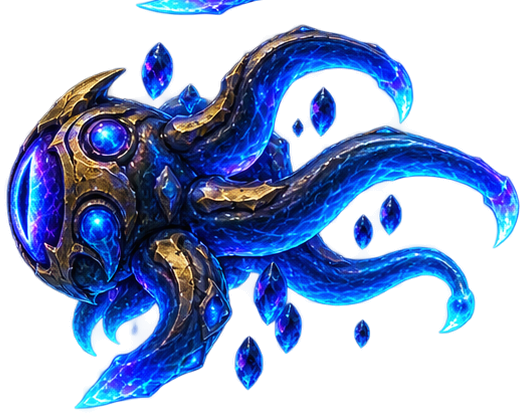
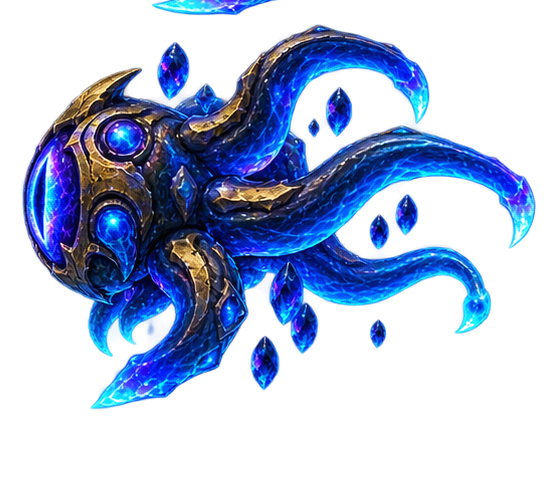
Uncrop Spawner tentacles; raise patrol speed and spawn pressure.

diff --git a/game/play.html b/game/play.html
@@ -2086,7 +2086,7 @@ button.dash-btn.loaded-grenades {
           bill.material.needsUpdate = true;
           const img = tex.image;
           if (img && img.width && img.height) {
-            const h = m.userData.spriteH || 7.4;
+            const h = m.userData.spriteH || 9.2;
             bill.scale.set(h * (img.width / img.height), h, 1);
           }
         }
@@ -2114,8 +2114,8 @@ button.dash-btn.loaded-grenades {
     const billboard = new THREE.Mesh(ENEMY_SPRITE.plane, mat);
     billboard.name = "spawnerSprite";
     billboard.renderOrder = 2;
-    const h = 7.4;
-    billboard.scale.set(h * 1.3, h, 1);
+    const h = 9.2;
+    billboard.scale.set(h * 1.25, h, 1);
     g.add(billboard);
     g.userData.billboard = billboard;
     g.userData.spriteH = h;
@@ -3061,7 +3061,7 @@ button.dash-btn.loaded-grenades {
           m.userData.billboard.material.needsUpdate = true;
           const img = tex.image;
           if (img && img.width && img.height) {
-            const h = m.userData.spriteH || 7.4;
+            const h = m.userData.spriteH || 9.2;
             m.userData.billboard.scale.set(h * (img.width / img.height), h, 1);
           }
         }
@@ -3069,7 +3069,8 @@ button.dash-btn.loaded-grenades {
       const sp = worldTo3D(s.x, s.y);
       const bob = Math.sin(s.pulse || state.time * 2) * 0.12;
       m.visible = true;
-      m.position.set(sp.x, 1.85 + bob, sp.z);
+      // Lift the billboard so tentacle tips clear the forest floor.
+      m.position.set(sp.x, 2.55 + bob, sp.z);
       const bill = m.userData.billboard;
       if (bill && camera) {
         bill.quaternion.copy(camera.quaternion);
@@ -3485,7 +3486,7 @@ button.dash-btn.loaded-grenades {
   const ROCKET_KILLS_INTERVAL = 100;
   const ROCKET_HOME_RANGE = 99999; // always lock a Spawner if any remain
   const ROCKET_SPEED = 400;
-  const SPAWNER_SPEED = 16;
+  const SPAWNER_SPEED = 34;
   const SPAWNER_RADIUS = 92;
   const NUKE_SPAWNER_RANGE = 240; // near-Spawner nuke = 1 missile hit
   /** Soft world edge — player is clamped here; pickups must spawn inside. */
@@ -4608,8 +4609,8 @@ button.dash-btn.loaded-grenades {
       face: pickSpawnerFace(ang),
       section,
       zone,
-      moveTimer: rand(2.2, 4.5),
-      spawnTimer: rand(1.2, 2.4),
+      moveTimer: rand(1.4, 3.0),
+      spawnTimer: rand(0.25, 0.7),
       pulse: rand(0, TAU),
       hitFlash: 0,
       color: "#7ad0ff",
@@ -4849,10 +4850,11 @@ button.dash-btn.loaded-grenades {
 
       s.spawnTimer -= dt;
       if (s.spawnTimer <= 0) {
-        const burst = state.enemies.length < 18 ? 2 : 1;
+        const density = 1 + state.time / 55 + Math.max(0, state.round - 1) * 0.25;
+        const burst = state.enemies.length < 22 ? 3 : state.enemies.length < 34 ? 2 : 1;
         for (let i = 0; i < burst; i++) spawnEnemyFromSpawner(s);
-        const density = 1 + state.time / 80 + Math.max(0, state.round - 1) * 0.15;
-        s.spawnTimer = Math.max(1.05, 2.4 / density) + rand(0, 0.5);
+        // Aggressive spawn cadence — Spawners should pressure the lantern hard.
+        s.spawnTimer = Math.max(0.28, 0.85 / density) + rand(0, 0.18);
       }
 
       // Touching a Spawner costs half your life — they still do not chase you.
@@ -6369,12 +6371,13 @@ button.dash-btn.loaded-grenades {
     const ready = spawnerFaceReady[face];
     const bob = Math.sin(sp.pulse) * 4;
     const pulse = 1 + Math.sin(sp.pulse * 1.2) * 0.025;
-    const drawH = 228 * pulse * (sp.hitFlash > 0 ? 1.04 : 1);
-    const aspect = ready && img && img.width ? img.width / img.height : 1.3;
+    // Tall draw box + slight upward bias so tentacle tips aren't clipped.
+    const drawH = 280 * pulse * (sp.hitFlash > 0 ? 1.04 : 1);
+    const aspect = ready && img && img.width ? img.width / img.height : 1.25;
     const drawW = drawH * aspect;
-    drawShadow(s.x, s.y + 14, drawW * 0.45, drawH * 0.12, 0.4);
+    drawShadow(s.x, s.y + 18, drawW * 0.42, drawH * 0.11, 0.4);
     ctx.save();
-    ctx.translate(s.x, s.y + bob);
+    ctx.translate(s.x, s.y + bob - drawH * 0.06);
     if (ready && img) {
       ctx.drawImage(img, -drawW / 2, -drawH / 2, drawW, drawH);
       if (sp.hitFlash > 0) {
@@ -6400,7 +6403,7 @@ button.dash-btn.loaded-grenades {
     const barW = Math.max(48, drawW * 0.34);
     const barH = 3;
     const bx = s.x - barW / 2;
-    const by = s.y - drawH * 0.48 - 10;
+    const by = s.y - drawH * 0.54 - 8;
     ctx.fillStyle = "rgba(8, 12, 18, 0.28)";
     ctx.fillRect(bx, by, barW, barH);
     ctx.fillStyle = `rgba(147, 197, 253, ${0.35 + pct * 0.25})`;

diff --git a/lantern.html b/lantern.html
@@ -2086,7 +2086,7 @@ button.dash-btn.loaded-grenades {
           bill.material.needsUpdate = true;
           const img = tex.image;
           if (img && img.width && img.height) {
-            const h = m.userData.spriteH || 7.4;
+            const h = m.userData.spriteH || 9.2;
             bill.scale.set(h * (img.width / img.height), h, 1);
           }
         }
@@ -2114,8 +2114,8 @@ button.dash-btn.loaded-grenades {
     const billboard = new THREE.Mesh(ENEMY_SPRITE.plane, mat);
     billboard.name = "spawnerSprite";
     billboard.renderOrder = 2;
-    const h = 7.4;
-    billboard.scale.set(h * 1.3, h, 1);
+    const h = 9.2;
+    billboard.scale.set(h * 1.25, h, 1);
     g.add(billboard);
     g.userData.billboard = billboard;
     g.userData.spriteH = h;
@@ -3061,7 +3061,7 @@ button.dash-btn.loaded-grenades {
           m.userData.billboard.material.needsUpdate = true;
           const img = tex.image;
           if (img && img.width && img.height) {
-            const h = m.userData.spriteH || 7.4;
+            const h = m.userData.spriteH || 9.2;
             m.userData.billboard.scale.set(h * (img.width / img.height), h, 1);
           }
         }
@@ -3069,7 +3069,8 @@ button.dash-btn.loaded-grenades {
       const sp = worldTo3D(s.x, s.y);
       const bob = Math.sin(s.pulse || state.time * 2) * 0.12;
       m.visible = true;
-      m.position.set(sp.x, 1.85 + bob, sp.z);
+      // Lift the billboard so tentacle tips clear the forest floor.
+      m.position.set(sp.x, 2.55 + bob, sp.z);
       const bill = m.userData.billboard;
       if (bill && camera) {
         bill.quaternion.copy(camera.quaternion);
@@ -3485,7 +3486,7 @@ button.dash-btn.loaded-grenades {
   const ROCKET_KILLS_INTERVAL = 100;
   const ROCKET_HOME_RANGE = 99999; // always lock a Spawner if any remain
   const ROCKET_SPEED = 400;
-  const SPAWNER_SPEED = 16;
+  const SPAWNER_SPEED = 34;
   const SPAWNER_RADIUS = 92;
   const NUKE_SPAWNER_RANGE = 240; // near-Spawner nuke = 1 missile hit
   /** Soft world edge — player is clamped here; pickups must spawn inside. */
@@ -4608,8 +4609,8 @@ button.dash-btn.loaded-grenades {
       face: pickSpawnerFace(ang),
       section,
       zone,
-      moveTimer: rand(2.2, 4.5),
-      spawnTimer: rand(1.2, 2.4),
+      moveTimer: rand(1.4, 3.0),
+      spawnTimer: rand(0.25, 0.7),
       pulse: rand(0, TAU),
       hitFlash: 0,
       color: "#7ad0ff",
@@ -4849,10 +4850,11 @@ button.dash-btn.loaded-grenades {
 
       s.spawnTimer -= dt;
       if (s.spawnTimer <= 0) {
-        const burst = state.enemies.length < 18 ? 2 : 1;
+        const density = 1 + state.time / 55 + Math.max(0, state.round - 1) * 0.25;
+        const burst = state.enemies.length < 22 ? 3 : state.enemies.length < 34 ? 2 : 1;
         for (let i = 0; i < burst; i++) spawnEnemyFromSpawner(s);
-        const density = 1 + state.time / 80 + Math.max(0, state.round - 1) * 0.15;
-        s.spawnTimer = Math.max(1.05, 2.4 / density) + rand(0, 0.5);
+        // Aggressive spawn cadence — Spawners should pressure the lantern hard.
+        s.spawnTimer = Math.max(0.28, 0.85 / density) + rand(0, 0.18);
       }
 
       // Touching a Spawner costs half your life — they still do not chase you.
@@ -6369,12 +6371,13 @@ button.dash-btn.loaded-grenades {
     const ready = spawnerFaceReady[face];
     const bob = Math.sin(sp.pulse) * 4;
     const pulse = 1 + Math.sin(sp.pulse * 1.2) * 0.025;
-    const drawH = 228 * pulse * (sp.hitFlash > 0 ? 1.04 : 1);
-    const aspect = ready && img && img.width ? img.width / img.height : 1.3;
+    // Tall draw box + slight upward bias so tentacle tips aren't clipped.
+    const drawH = 280 * pulse * (sp.hitFlash > 0 ? 1.04 : 1);
+    const aspect = ready && img && img.width ? img.width / img.height : 1.25;
     const drawW = drawH * aspect;
-    drawShadow(s.x, s.y + 14, drawW * 0.45, drawH * 0.12, 0.4);
+    drawShadow(s.x, s.y + 18, drawW * 0.42, drawH * 0.11, 0.4);
     ctx.save();
-    ctx.translate(s.x, s.y + bob);
+    ctx.translate(s.x, s.y + bob - drawH * 0.06);
     if (ready && img) {
       ctx.drawImage(img, -drawW / 2, -drawH / 2, drawW, drawH);
       if (sp.hitFlash > 0) {
@@ -6400,7 +6403,7 @@ button.dash-btn.loaded-grenades {
     const barW = Math.max(48, drawW * 0.34);
     const barH = 3;
     const bx = s.x - barW / 2;
-    const by = s.y - drawH * 0.48 - 10;
+    const by = s.y - drawH * 0.54 - 8;
     ctx.fillStyle = "rgba(8, 12, 18, 0.28)";
     ctx.fillRect(bx, by, barW, barH);
     ctx.fillStyle = `rgba(147, 197, 253, ${0.35 + pct * 0.25})`;

diff --git a/game/game.js b/game/game.js
@@ -9,7 +9,7 @@
   const ROCKET_KILLS_INTERVAL = 100;
   const ROCKET_HOME_RANGE = 99999; // always lock a Spawner if any remain
   const ROCKET_SPEED = 400;
-  const SPAWNER_SPEED = 16;
+  const SPAWNER_SPEED = 34;
   const SPAWNER_RADIUS = 92;
   const NUKE_SPAWNER_RANGE = 240; // near-Spawner nuke = 1 missile hit
   /** Soft world edge — player is clamped here; pickups must spawn inside. */
@@ -1132,8 +1132,8 @@
       face: pickSpawnerFace(ang),
       section,
       zone,
-      moveTimer: rand(2.2, 4.5),
-      spawnTimer: rand(1.2, 2.4),
+      moveTimer: rand(1.4, 3.0),
+      spawnTimer: rand(0.25, 0.7),
       pulse: rand(0, TAU),
       hitFlash: 0,
       color: "#7ad0ff",
@@ -1373,10 +1373,11 @@
 
       s.spawnTimer -= dt;
       if (s.spawnTimer <= 0) {
-        const burst = state.enemies.length < 18 ? 2 : 1;
+        const density = 1 + state.time / 55 + Math.max(0, state.round - 1) * 0.25;
+        const burst = state.enemies.length < 22 ? 3 : state.enemies.length < 34 ? 2 : 1;
         for (let i = 0; i < burst; i++) spawnEnemyFromSpawner(s);
-        const density = 1 + state.time / 80 + Math.max(0, state.round - 1) * 0.15;
-        s.spawnTimer = Math.max(1.05, 2.4 / density) + rand(0, 0.5);
+        // Aggressive spawn cadence — Spawners should pressure the lantern hard.
+        s.spawnTimer = Math.max(0.28, 0.85 / density) + rand(0, 0.18);
       }
 
       // Touching a Spawner costs half your life — they still do not chase you.
@@ -2893,12 +2894,13 @@
     const ready = spawnerFaceReady[face];
     const bob = Math.sin(sp.pulse) * 4;
     const pulse = 1 + Math.sin(sp.pulse * 1.2) * 0.025;
-    const drawH = 228 * pulse * (sp.hitFlash > 0 ? 1.04 : 1);
-    const aspect = ready && img && img.width ? img.width / img.height : 1.3;
+    // Tall draw box + slight upward bias so tentacle tips aren't clipped.
+    const drawH = 280 * pulse * (sp.hitFlash > 0 ? 1.04 : 1);
+    const aspect = ready && img && img.width ? img.width / img.height : 1.25;
     const drawW = drawH * aspect;
-    drawShadow(s.x, s.y + 14, drawW * 0.45, drawH * 0.12, 0.4);
+    drawShadow(s.x, s.y + 18, drawW * 0.42, drawH * 0.11, 0.4);
     ctx.save();
-    ctx.translate(s.x, s.y + bob);
+    ctx.translate(s.x, s.y + bob - drawH * 0.06);
     if (ready && img) {
       ctx.drawImage(img, -drawW / 2, -drawH / 2, drawW, drawH);
       if (sp.hitFlash > 0) {
@@ -2924,7 +2926,7 @@
     const barW = Math.max(48, drawW * 0.34);
     const barH = 3;
     const bx = s.x - barW / 2;
-    const by = s.y - drawH * 0.48 - 10;
+    const by = s.y - drawH * 0.54 - 8;
     ctx.fillStyle = "rgba(8, 12, 18, 0.28)";
     ctx.fillRect(bx, by, barW, barH);
     ctx.fillStyle = `rgba(147, 197, 253, ${0.35 + pct * 0.25})`;

diff --git a/game/cgi.js b/game/cgi.js
@@ -738,7 +738,7 @@
           bill.material.needsUpdate = true;
           const img = tex.image;
           if (img && img.width && img.height) {
-            const h = m.userData.spriteH || 7.4;
+            const h = m.userData.spriteH || 9.2;
             bill.scale.set(h * (img.width / img.height), h, 1);
           }
         }
@@ -766,8 +766,8 @@
     const billboard = new THREE.Mesh(ENEMY_SPRITE.plane, mat);
     billboard.name = "spawnerSprite";
     billboard.renderOrder = 2;
-    const h = 7.4;
-    billboard.scale.set(h * 1.3, h, 1);
+    const h = 9.2;
+    billboard.scale.set(h * 1.25, h, 1);
     g.add(billboard);
     g.userData.billboard = billboard;
     g.userData.spriteH = h;
@@ -1713,7 +1713,7 @@
           m.userData.billboard.material.needsUpdate = true;
           const img = tex.image;
           if (img && img.width && img.height) {
-            const h = m.userData.spriteH || 7.4;
+            const h = m.userData.spriteH || 9.2;
             m.userData.billboard.scale.set(h * (img.width / img.height), h, 1);
           }
         }
@@ -1721,7 +1721,8 @@
       const sp = worldTo3D(s.x, s.y);
       const bob = Math.sin(s.pulse || state.time * 2) * 0.12;
       m.visible = true;
-      m.position.set(sp.x, 1.85 + bob, sp.z);
+      // Lift the billboard so tentacle tips clear the forest floor.
+      m.position.set(sp.x, 2.55 + bob, sp.z);
       const bill = m.userData.billboard;
       if (bill && camera) {
         bill.quaternion.copy(camera.quaternion);

diff --git a/sw.js b/sw.js
@@ -1,5 +1,5 @@
 /* Lantern Hollow — lightweight offline cache for phone install / testing */
-const CACHE = "lantern-hollow-v26";
+const CACHE = "lantern-hollow-v27";
 const PRECACHE = [
   "./",
   "./lantern.html",

diff --git a/game/sw.js b/game/sw.js
@@ -1,5 +1,5 @@
 /* Lantern Hollow game folder — lightweight offline cache */
-const CACHE = "lantern-hollow-game-v26";
+const CACHE = "lantern-hollow-game-v27";
 const PRECACHE = [
   "./",
   "./play.html",
